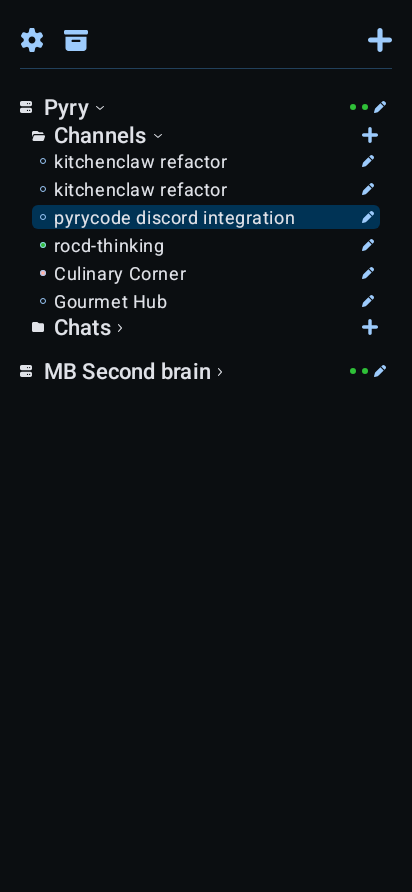
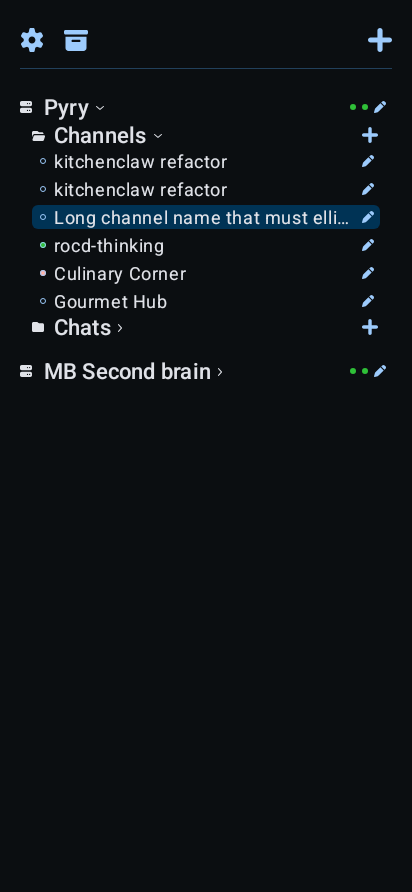
test: verify sidebar tree coordinate taps (#1203)

Changed region(s): [[0.1456, 0.2422, 0.8155, 0.2724]]

diff --git a/app/src/androidTest/java/de/pyryco/mobile/ui/conversations/list/SidebarTreeCaptureTest.kt b/app/src/androidTest/java/de/pyryco/mobile/ui/conversations/list/SidebarTreeCaptureTest.kt
@@ -5,25 +5,38 @@ import android.graphics.Canvas
 import android.os.ParcelFileDescriptor
 import android.view.View
 import androidx.compose.runtime.CompositionLocalProvider
+import androidx.compose.runtime.getValue
+import androidx.compose.runtime.mutableStateOf
+import androidx.compose.runtime.setValue
+import androidx.compose.ui.geometry.Offset
 import androidx.compose.ui.platform.LocalDensity
 import androidx.compose.ui.platform.LocalView
 import androidx.compose.ui.test.assertIsDisplayed
+import androidx.compose.ui.test.click
 import androidx.compose.ui.test.getUnclippedBoundsInRoot
+import androidx.compose.ui.test.hasContentDescription
 import androidx.compose.ui.test.junit4.createComposeRule
 import androidx.compose.ui.test.onNodeWithTag
 import androidx.compose.ui.test.onNodeWithText
-import androidx.compose.ui.test.performClick
+import androidx.compose.ui.test.onRoot
+import androidx.compose.ui.test.performTouchInput
 import androidx.compose.ui.unit.Density
+import androidx.compose.ui.unit.DpRect
+import androidx.compose.ui.unit.dp
+import androidx.compose.ui.unit.height
 import androidx.test.ext.junit.runners.AndroidJUnit4
 import androidx.test.platform.app.InstrumentationRegistry
+import de.pyryco.mobile.R
 import de.pyryco.mobile.data.model.ConnectionStatus
 import de.pyryco.mobile.data.model.Conversation
 import de.pyryco.mobile.data.model.PyrycodeLinkStatus
 import de.pyryco.mobile.data.model.RelayLinkStatus
 import de.pyryco.mobile.di.ConversationAttention
 import de.pyryco.mobile.di.HostConversationSnapshot
+import de.pyryco.mobile.ui.components.EDIT_HOST_NAME_FIELD_TAG
 import de.pyryco.mobile.ui.conversations.components.treeHostChannelAddTestTag
 import de.pyryco.mobile.ui.conversations.components.treeHostEditTestTag
+import de.pyryco.mobile.ui.host.HostEditorState
 import de.pyryco.mobile.ui.theme.PyrycodeMobileTheme
 import kotlinx.datetime.Instant
 import org.junit.After
@@ -43,6 +56,7 @@ class SidebarTreeCaptureTest {
     private var contentView: View? = null
     private var oldSize = "reset"
     private var oldDensity = "reset"
+    private val longName = "Long channel name that must ellipsize before the neighboring edit control"
 
     @Before fun setDisplay() {
         oldSize = overrideOf(shell("wm size"))
@@ -68,6 +82,41 @@ class SidebarTreeCaptureTest {
 
     @Test fun enlargedTextAt412By892() = capture("emulator-412x892-large-text.png", 412, 892, 1.5f)
 
+    @Test fun compactCoordinateTapsOpenTheIntendedHostEditor() {
+        shell("wm size 320x800")
+        instrumentation.waitForIdleSync()
+        val events = mutableListOf<ChannelListEvent>()
+        var state by mutableStateOf(fixture(longConversationName = true))
+        rule.setContent {
+            CompositionLocalProvider(LocalDensity provides Density(1f, 1.5f)) {
+                PyrycodeMobileTheme(darkTheme = true, dynamicColor = false) {
+                    ChannelListScreen(
+                        hostState = state,
+                        onEvent = { event ->
+                            events += event
+                            if (event == ChannelListEvent.TreeHostEditTapped("pyry")) {
+                                state =
+                                    state.copy(
+                                        hostEditor =
+                                            HostEditorState(
+                                                serverId = "pyry",
+                                                serverIdentity = "server-777",
+                                                relayAddress = "wss://relay.example:8443",
+                                                initialName = "Pyry",
+                                            ),
+                                    )
+                            }
+                        },
+                    )
+                }
+            }
+        }
+        val edit = rule.onNodeWithTag(treeHostEditTestTag("pyry")).getUnclippedBoundsInRoot()
+        tap(edit.left.value + 1f, edit.midY())
+        assertEquals(listOf(ChannelListEvent.TreeHostEditTapped("pyry")), events)
+        rule.onNodeWithTag(EDIT_HOST_NAME_FIELD_TAG).assertIsDisplayed()
+    }
+
     private fun capture(
         name: String,
         expectedWidth: Int,
@@ -75,11 +124,12 @@ class SidebarTreeCaptureTest {
         fontScale: Float,
     ) {
         val events = mutableListOf<ChannelListEvent>()
+        val longNames = expectedWidth == 320 || fontScale > 1f
         rule.setContent {
             CompositionLocalProvider(LocalDensity provides Density(density = 1f, fontScale = fontScale)) {
                 PyrycodeMobileTheme(darkTheme = true, dynamicColor = false) {
                     contentView = LocalView.current
-                    ChannelListScreen(hostState = fixture(), onEvent = { events += it })
+                    ChannelListScreen(hostState = fixture(longConversationName = longNames), onEvent = { events += it })
                 }
             }
         }
@@ -105,23 +155,72 @@ class SidebarTreeCaptureTest {
         bitmap.recycle()
         File(output, name.removeSuffix(".png") + ".txt").writeText(
             "viewport=${expectedWidth}x$expectedHeight density=1 fontScale=$fontScale staticDark=true " +
-                "capture=decorView.draw fixture=Pyry host, six channels, collapsed Chats, collapsed second host\n",
+                "capture=decorView.draw fixture=Pyry host, six channels" +
+                (if (longNames) " (one long ellipsized name)" else "") +
+                ", collapsed Chats, collapsed second host\n",
         )
 
-        hostEdit.performClick()
-        channelAdd.performClick()
-        rule.onNodeWithText("pyrycode discord integration").performClick()
-        assertEquals(
+        val fold =
+            rule
+                .onNode(hasContentDescription(instrumentation.targetContext.getString(R.string.cd_tree_row_collapse, "Pyry")))
+                .getUnclippedBoundsInRoot()
+        val sectionFold =
+            rule
+                .onNode(hasContentDescription(instrumentation.targetContext.getString(R.string.cd_tree_row_collapse, "Channels on Pyry")))
+                .getUnclippedBoundsInRoot()
+        val name = if (longNames) longName else "pyrycode discord integration"
+        val conversation = rule.onNodeWithText(name).getUnclippedBoundsInRoot()
+        val conversationEdit =
+            rule
+                .onNode(hasContentDescription(instrumentation.targetContext.getString(R.string.cd_tree_channel_edit, name)))
+                .getUnclippedBoundsInRoot()
+        val nextConversation = rule.onNodeWithText("rocd-thinking").getUnclippedBoundsInRoot()
+        assertTrue("conversation text must end before its edit control", conversation.right <= conversationEdit.left)
+        assertTrue("conversation edit must stay within the viewport", conversationEdit.right <= expectedWidth.dp)
+        assertTrue("long conversation name must stay on one line", conversation.height <= 24.dp)
+        val hostFoldEvent = ChannelListEvent.TreeFoldToggled(TreeFoldKey(ConversationTreeSection.Host, "pyry"))
+        val sectionFoldEvent = ChannelListEvent.TreeFoldToggled(TreeFoldKey(ConversationTreeSection.Channels, "pyry"))
+        val addEvent = ChannelListEvent.TreeHostChannelAddTapped("pyry")
+        val openC3 = ChannelListEvent.TreeRowTapped(HostConversationTarget("pyry", "c3"))
+        val editC3 = ChannelListEvent.TreeChannelEditTapped(HostConversationTarget("pyry", "c3"))
+        val openC4 = ChannelListEvent.TreeRowTapped(HostConversationTarget("pyry", "c4"))
+        val hostEditEvent = ChannelListEvent.TreeHostEditTapped("pyry")
+        val taps =
             listOf(
-                ChannelListEvent.TreeHostEditTapped("pyry"),
-                ChannelListEvent.TreeHostChannelAddTapped("pyry"),
-                ChannelListEvent.TreeRowTapped(HostConversationTarget("pyry", "c3")),
-            ),
-            events,
-        )
+                Triple(fold.right.value - 1f, fold.midY(), hostFoldEvent),
+                Triple(sectionFold.right.value - 1f, sectionFold.midY(), sectionFoldEvent),
+                Triple(addBounds.left.value + 1f, addBounds.midY(), addEvent),
+                Triple(addBounds.midX(), addBounds.midY(), addEvent),
+                Triple(addBounds.right.value - 1f, addBounds.midY(), addEvent),
+                Triple(conversation.left.value + 1f, conversation.midY(), openC3),
+                Triple(conversation.right.value - 1f, conversation.midY(), openC3),
+                Triple(conversationEdit.left.value + 1f, conversationEdit.midY(), editC3),
+                Triple(conversationEdit.right.value - 1f, conversationEdit.midY(), editC3),
+                Triple(nextConversation.left.value + 1f, nextConversation.midY(), openC4),
+                Triple(editBounds.left.value + 1f, editBounds.midY(), hostEditEvent),
+                Triple(editBounds.midX(), editBounds.midY(), hostEditEvent),
+                Triple(editBounds.right.value - 1f, editBounds.midY(), hostEditEvent),
+            )
+        taps.forEach { (x, y, expected) ->
+            val before = events.size
+            tap(x, y)
+            assertEquals("tap at ($x, $y) must dispatch only its own action", listOf(expected), events.drop(before))
+        }
     }
 
-    private fun fixture(): HostChannelListState {
+    private fun tap(
+        x: Float,
+        y: Float,
+    ) {
+        rule.onRoot().performTouchInput { click(Offset(x, y)) }
+        rule.waitForIdle()
+    }
+
+    private fun DpRect.midX(): Float = (left.value + right.value) / 2f
+
+    private fun DpRect.midY(): Float = (top.value + bottom.value) / 2f
+
+    private fun fixture(longConversationName: Boolean = false): HostChannelListState {
         fun conversation(
             id: String,
             name: String,
@@ -164,7 +263,7 @@ class SidebarTreeCaptureTest {
                             listOf(
                                 conversation("c1", "kitchenclaw refactor", true),
                                 conversation("c2", "kitchenclaw refactor", true),
-                                conversation("c3", "pyrycode discord integration", true),
+                                conversation("c3", if (longConversationName) longName else "pyrycode discord integration", true),
                                 conversation("c4", "rocd-thinking", true),
                                 conversation("c5", "Culinary Corner", true),
                                 conversation("c6", "Gourmet Hub", true),

diff --git a/docs/specs/architecture/1203-sidebar-tree-rows.md b/docs/specs/architecture/1203-sidebar-tree-rows.md
@@ -54,3 +54,4 @@ Pending for the documentation stage: update “Tree rows” in `docs/knowledge/f
 
 - 2026-09-28: The section plus has the same shape as the toolbar plus scaled to 16 dp; retain a separate vector resource at the Figma slot's native viewport. The visible Chats row is collapsed and supplies the right chevron; the expanded Pyry host also shows a right chevron despite visible children. Use down for expanded and right for collapsed, matching the section's state rule, and record the conflicting host instance in visual evidence.
 - 2026-09-28: Device pixels exposed a 12 dp inset on both sides of conversation fills and a 10 dp trailing section-add inset. The row component keeps its 24 dp visual band; list-level padding supplies the horizontal inset and 4 dp sibling gap. Existing Compose semantics tests observe expanded hit bounds around compact rows, so exact pixel geometry is proven by the device capture and component test while list tests assert the gap between semantic targets.
+- 2026-09-28 rework: Verifier found that semantic `performClick` does not prove physical hit-region separation. `SidebarTreeCaptureTest` now sends root-coordinate taps at control edges and centers on all three viewports, checks one exact event per tap, uses a long conversation name on compact and enlarged-text captures, and opens the host editor through a coordinate tap. The row implementation and geometry remain unchanged.
